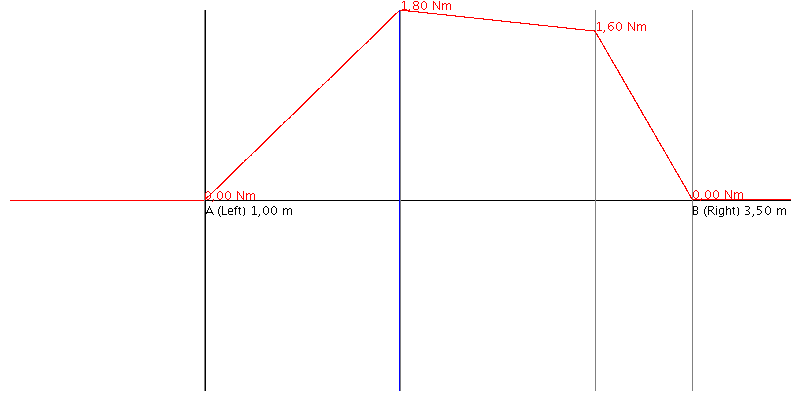
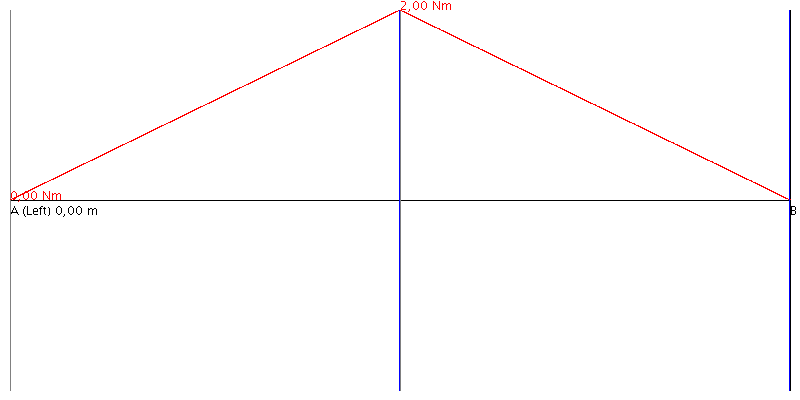
Ran some tests

diff --git a/src/org/berthold/beamCalc/MSolver.java b/src/org/berthold/beamCalc/MSolver.java
@@ -14,7 +14,7 @@ public class MSolver {
 
 	// Any step between two nighboring shearing forces counts as an discontiunuity
 	private static final int DISCONTIUNUITY_THRESHOLD = 1;
-	
+
 	/**
 	 * Calculates the bending moments along the beam.
 	 * 
@@ -23,14 +23,14 @@ public class MSolver {
 	 * 
 	 * @param qTable
 	 * @param beam
-	 * @param unit The unit (N, kN.....).
-	 * @return A table of {@link StressResultant}- objects containing the
-	 *         bending moments along the beam => M(x).
+	 * @param unit   The unit (N, kN.....).
+	 * @return A table of {@link StressResultant}- objects containing the bending
+	 *         moments along the beam => M(x).
 	 */
-	public static StressResultantTable solve(StressResultantTable qTable, Beam beam,String unit) {
+	public static StressResultantTable solve(StressResultantTable qTable, Beam beam, String unit) {
 
-		StressResultantTable mTable = new StressResultantTable(beam, qTable.getSectionLength_m(),unit);
-	
+		StressResultantTable mTable = new StressResultantTable(beam, qTable.getSectionLength_m(), unit);
+
 		double m_Nm = 0;
 		double m1_Nm = 0;
 		double q_N, q1_N;
@@ -39,9 +39,9 @@ public class MSolver {
 		double x = 0;
 
 		for (int n = 0; n <= qTable.getLength() - 2; n++) {
-       
+
 			q_N = qTable.getShearingForceAtIndex(n).getShearingForce();
-		
+
 			q1_N = qTable.getShearingForceAtIndex(n + 1).getShearingForce();
 			double deltaQ_N = q1_N - q_N;
 
@@ -51,28 +51,25 @@ public class MSolver {
 				m_Nm = q_N * x;
 				m1_Nm = q1_N * (x + sectionLength_m);
 				deltaM_Nm = m1_Nm - m_Nm;
-				
-	
-	} else {
-				
+
+			} else {
+
 			}
-			
+
 			m_Nm = mTable.getShearingForceAtIndex(n).getShearingForce();
 			mTable.getShearingForceAtIndex(n + 1).setShearingForce(m_Nm + deltaM_Nm);
-		
+
 			// Check for disconuinity in Q(x) because
 			// M(x) must also be a diconuinity
 			if (qTable.getShearingForceAtIndex(n).isDiscontiunuity()) {
 				mTable.getShearingForceAtIndex(n).setDiscontiunuity(true);
-				mTable.getShearingForceAtIndex(n).setShearingForceDeltaBy(m_Nm+deltaM_Nm);
-			}	
-			
+				mTable.getShearingForceAtIndex(n).setShearingForceDeltaBy(m_Nm + deltaM_Nm);
+			}
+
 			// Check for zero points in Q(x). Zero points are local
 			// maxima in M(x).
-			if (qTable.getShearingForceAtIndex(n).isZeroPoint()) 
+			if (qTable.getShearingForceAtIndex(n).isZeroPoint())
 				mTable.getShearingForceAtIndex(n).setMaxima(true);
-			
-	
 
 			// Next
 			x = x + sectionLength_m;

diff --git a/src/MainBeamCalculator.java b/src/MainBeamCalculator.java
@@ -19,17 +19,18 @@ public class MainBeamCalculator {
 
 		// Create a new beam
 		Beam myBeam = new Beam(4);
-		myBeam.addBearing(new Support("A (Left)", 1, Support.ROLLER_SUPPORT));
-		myBeam.addBearing(new Support("B (Right)", 3.5, Support.PIN_SUPPORT));
+		myBeam.addBearing(new Support("A (Left)", 0, Support.ROLLER_SUPPORT));
+		myBeam.addBearing(new Support("B (Right)", 4, Support.PIN_SUPPORT));
 
 		// Add loads
 		// NAME/ Force/ Distance/ Angle /Length
 		myBeam.addLoad(new Load("F1", -2.0, 2, 0, 0));
-		myBeam.addLoad(new Load("F2", -3, 3,0, 0));
+		//myBeam.addLoad(new Load("F2", -3, 2,0, 0));
+		//myBeam.addLoad(new Load("F3", -1, 4,0, 0));
 		//myBeam.addLoad(new Load("q1", -5, 0, 0, 4));
 		
 		
-		//myBeam.addLoad(new Load("q2", -2, 1, 0, 3));
+		//myBeam.addLoad(new Load("q2", -2, 0, 0, 4));
 		//myBeam.addLoad(new Load("q3", -4, 2, 0, 2));
 
 		// Show beam info
